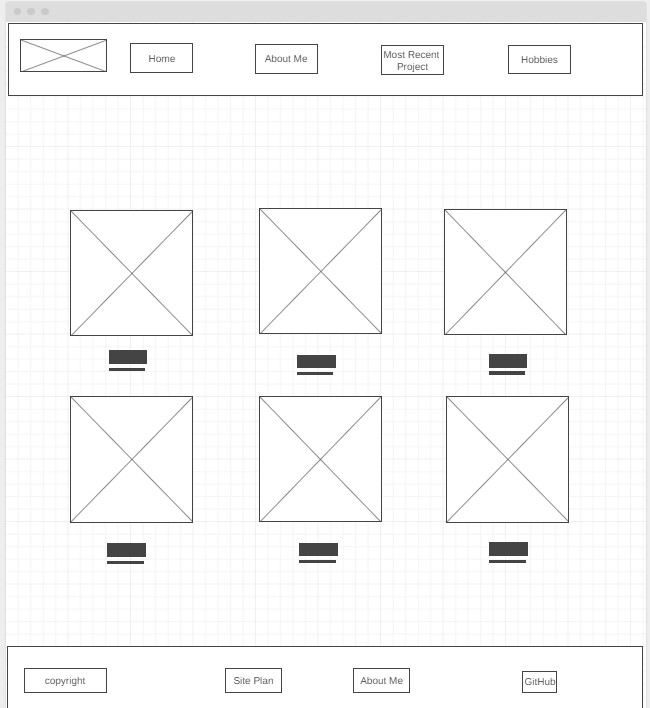
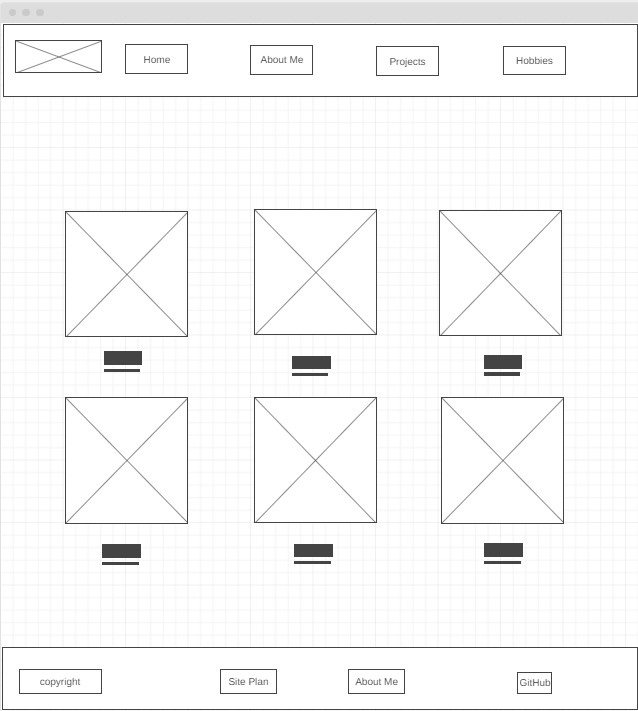
updated wireframes

diff --git a/farseerindustries/site-plan.html b/farseerindustries/site-plan.html
@@ -172,7 +172,7 @@
             <li>Has project video demo within a bordered box in the middle of the screen</li>
             <li>Has a link out to GitHub repository for those interested in the code behind the project</li>
             <li>Header will contain links to: HOME, ABOUT ME, PROJECTS, HOBBIES</li>
-            <li>Footer will contain links to: GITHUB, SITE PLAN, and ABOUT ME page</li>
+            <li>Footer will contain links to: GITHUB, SITE PLAN, PROJECT PAGE PLAN and ABOUT ME page</li>
             <li>All links on ABOUT ME page that are for future development will be placeholder links</li>
         </ul>
       </p>
